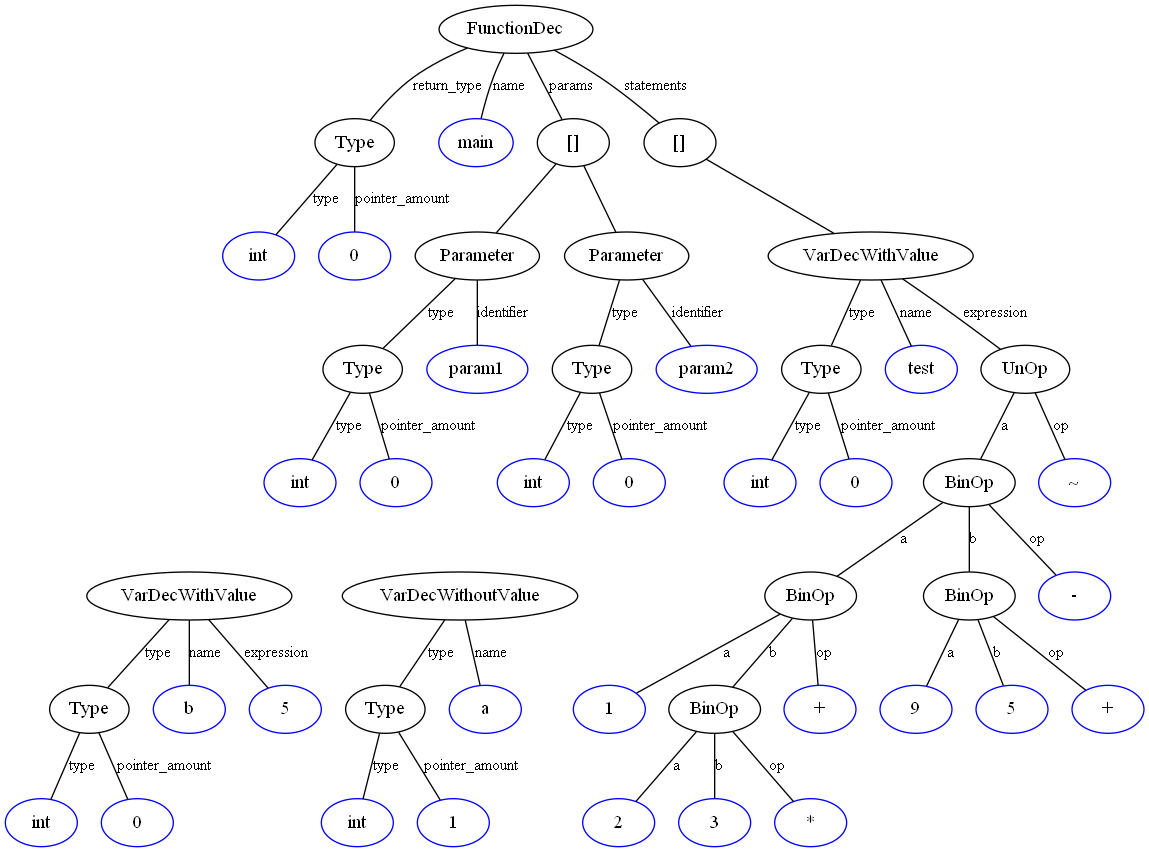
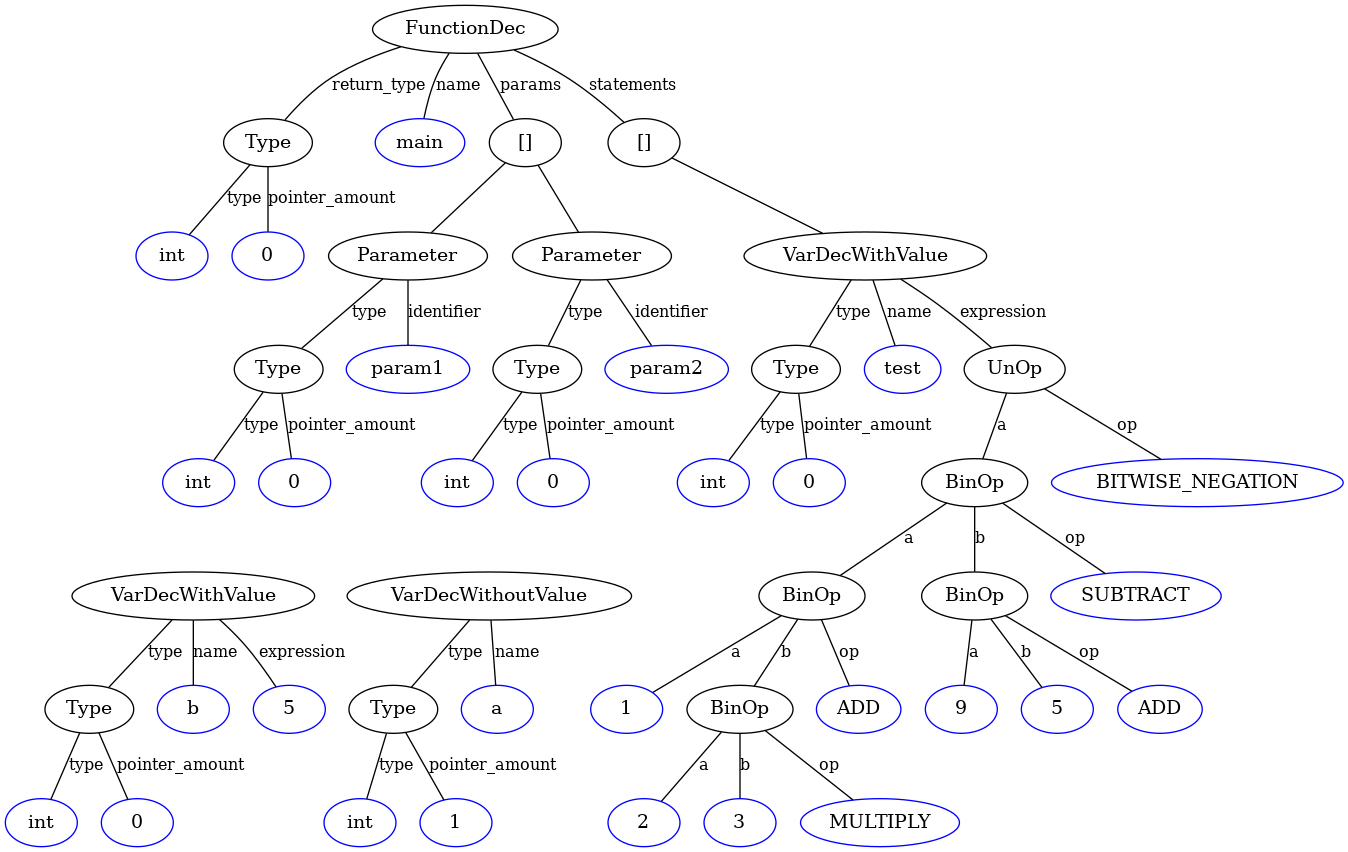
lexer rewrite fail

diff --git a/compiler/lexer.py b/compiler/lexer.py
@@ -1,14 +1,28 @@
+#!/usr/bin/env python3.10
+
+from curses.ascii import isdigit
+from typing import Set
 import helpers
 import os
 import tempfile
 
+SYMBOLS = {"{", "}", "(", ")", "[", "]", ".", ",", ";",
+            "+", "-", "*", "/", "&&", "||", "<", ">", "<=",
+            ">=", "=", "==", "~", "!"}
 
+SYMBOL_CHARS = set()
+
+for symbol in SYMBOLS:
+    for char in symbol:
+        SYMBOL_CHARS.add(char)
+
+print(SYMBOL_CHARS)
+
+TYPES = ["int", "int16", "char", "bool", "void"]
+KEYWORDS = [ "true", "false", "if", "void"
+            "else", "while", "return", "struct"] + TYPES
 class Lexer:
-    SYMBOLS = ["{", "}", "(", ")", "[", "]", ".", ",", ";",
-               "+", "-", "*", "/", "&", "|", "<", ">", "=", "~", "!"]
-    TYPES = ["int", "int16", "char", "bool", "void"]
-    KEYWORDS = [ "true", "false", "if", "void"
-                "else", "while", "return", "struct"] + TYPES
+
 
     def __init__(self, input_file):
         temp_file = os.path.join(tempfile.gettempdir(), "removed_comments")
@@ -19,49 +33,82 @@ class Lexer:
             token = ""
             isString = False
             lineNumber = 1
+            c = f.read(1)
             while True:
-                c = f.read(1)
                 if not c:
                     break
+                
 
-                if c == "\n":
-                    lineNumber += 1
-
-                if c == "\"":
-                    if isString:
-                        self.tokens.append(
-                            (token, "stringConstant", lineNumber))
-                        token = ""
-                    isString = not isString
+                if (c.isspace()):
+                    c = f.read(1)
                     continue
-
-                if isString:
+                if (c.isalpha()):
                     token += c
+                    c = f.read(1)
+                    while (c.isalnum()):
+                        token+=c
+                        c = f.read(1)
+                    print(token)
+                    token = ""
                     continue
-
-                if c in self.SYMBOLS or c.isspace():
-                    token = token.strip()
-                    if (len(token) > 0):
-                        if (token in self.KEYWORDS):
-                            self.tokens.append((token, "keyword", lineNumber))
-                            token = ""
-                        elif (token.isidentifier()):
-                            self.tokens.append(
-                                (token, "identifier", lineNumber))
-                            token = ""
-                        elif (token.isnumeric()):
-                            self.tokens.append(
-                                (token, "integerConstant", lineNumber))
-                            token = ""
-                        elif token.isspace():
-                            pass
-                        else:
-                            raise SyntaxError("Unknown token: " + token)
-
-                    if c in self.SYMBOLS:
-                        self.tokens.append((c, "symbol", lineNumber))
+                elif (c.isdigit()):
+                    pass
+                elif (c in SYMBOL_CHARS):
+                    token += c
+                    c = f.read(1)
+                    while (c in SYMBOL_CHARS):
+                        token+=c
+                        c = f.read(1)
+                    if token not in SYMBOLS:
+                        raise Exception
+                    token = ""
                     continue
-                token += c
+                else:
+                    raise Exception
+                token +=  c
+            # while True:
+            #     c = f.read(1)
+            #     if not c:
+            #         break
+
+            #     if c == "\n":
+            #         lineNumber += 1
+
+            #     if c == "\"":
+            #         if isString:
+            #             self.tokens.append(
+            #                 (token, "stringConstant", lineNumber))
+            #             token = ""
+            #         isString = not isString
+            #         continue
+
+            #     if isString:
+            #         token += c
+            #         continue
+
+            #     if c in self.SYMBOLS or c.isspace():
+            #         token = token.strip()
+            #         if (len(token) > 0):
+            #             if (token in self.KEYWORDS):
+            #                 self.tokens.append((token, "keyword", lineNumber))
+            #                 token = ""
+            #             elif (token.isidentifier()):
+            #                 self.tokens.append(
+            #                     (token, "identifier", lineNumber))
+            #                 token = ""
+            #             elif (token.isnumeric()):
+            #                 self.tokens.append(
+            #                     (token, "integerConstant", lineNumber))
+            #                 token = ""
+            #             elif token.isspace():
+            #                 pass
+            #             else:
+            #                 raise SyntaxError("Unknown token: " + token)
+
+            #         if c in self.SYMBOLS:
+            #             self.tokens.append((c, "symbol", lineNumber))
+            #         continue
+            #     token += c
             self.currentToken = 0
         os.remove(temp_file)
 
@@ -85,3 +132,8 @@ class Lexer:
 
     def future_token_value(self, i=1):
         return self.tokens[self.currentToken+i][0]
+
+
+if __name__ == "__main__":
+    with open("example.c") as f:
+        lexer = Lexer(f)

diff --git a/compiler/parse_expression.py b/compiler/parse_expression.py
@@ -21,8 +21,8 @@ def parse_factor(self):
         expression = parse_expression(self)
         self.eat(")")
         return expression
-    elif self.lexer.token_value() in ["-", "~", "!", "*", "&"]:
-        op = self.lexer.token_value()
+    elif self.lexer.token_value() in UNARY_OPS.keys():
+        op = UNARY_OPS[self.lexer.token_value()]
         self.lexer.advance()
         factor = parse_factor(self)
         return UnOp(op, factor)
@@ -32,14 +32,13 @@ def parse_factor(self):
         self.lexer.advance()
         return str(constant)
 
-
 def generate_expression_parsers():
     expression_parsers = [parse_factor]
     for i, operations in enumerate(PRECEDENCE[::-1]):
         def parse_arbitrary_expression(self, i=i, operations=operations, expression_parsers=expression_parsers):
             expr = expression_parsers[i](self)
             while (self.lexer.token_value() in operations.keys()):
-                op = self.lexer.token_value()
+                op = operations[self.lexer.token_value()]
                 self.lexer.advance()
                 expr_term = expression_parsers[i](self)
                 expr = BinOp(op, expr, expr_term)

diff --git a/compiler/AST_types.py b/compiler/AST_types.py
@@ -6,13 +6,10 @@ class FunctionDec:
         self.statements = statements
 
    
-
-
 class VarDecWithoutValue:
     def __init__(self, type, name):
         self.type = type
         self.name = name
-
 
 
 class VarDecWithValue:
@@ -20,8 +17,6 @@ class VarDecWithValue:
         self.type = type
         self.name = name
         self.expression = expression
-
-
 
 class UnOp:
     def __init__(self, op, a):
@@ -34,9 +29,6 @@ class BinOp:
         self.a = a
         self.b = b
         self.op = op
-
-    # def __repr__(self):
-    #     return f"{self.a}\n{self.b}\n{self.op}"
 
 
 class Type:
@@ -53,3 +45,4 @@ class Parameter:
 class Constant:
     def __init__(self, value):
         self.value = value
+

diff --git a/compiler/parser.py b/compiler/parser.py
@@ -1,8 +1,9 @@
+#!/usr/bin/env python3.10
+
 from lexer import Lexer
 from AST_types import *
 from parse_expression import parse_expression
 from draw_ast import draw_ast
-import json
 
 class Parser:
     def __init__(self, lexer):
@@ -21,13 +22,8 @@ class Parser:
             else:
                 self.AST.append(self.parse_var_dec(type))
 
-
         draw_ast(self.AST)
-        # for child in self.AST:
-        #     print(child)
-        # Serialization
-        # json_data = json.dumps(self.AST, default=lambda o: o.__dict__, indent=4)
-        # print(json_data)
+
     def parse_function_dec(self, type):
         # type
         return_type = type

diff --git a/compiler/example.c b/compiler/example.c
@@ -1,12 +1,11 @@
+int abc123**
+// int* a;
 
-int b = 5;
-int* a;
+// // int b;
+// int main(int param1, int param2)
+// {
+//     int test = ~(1+2*3-(9+5));
 
-// int b;
-int main(int param1, int param2)
-{
-    int test = ~(1+2*3-(9+5));
-
-}
-// void a;
-// void test() {}
+// }
+// // void a;
+// // void test() {}
